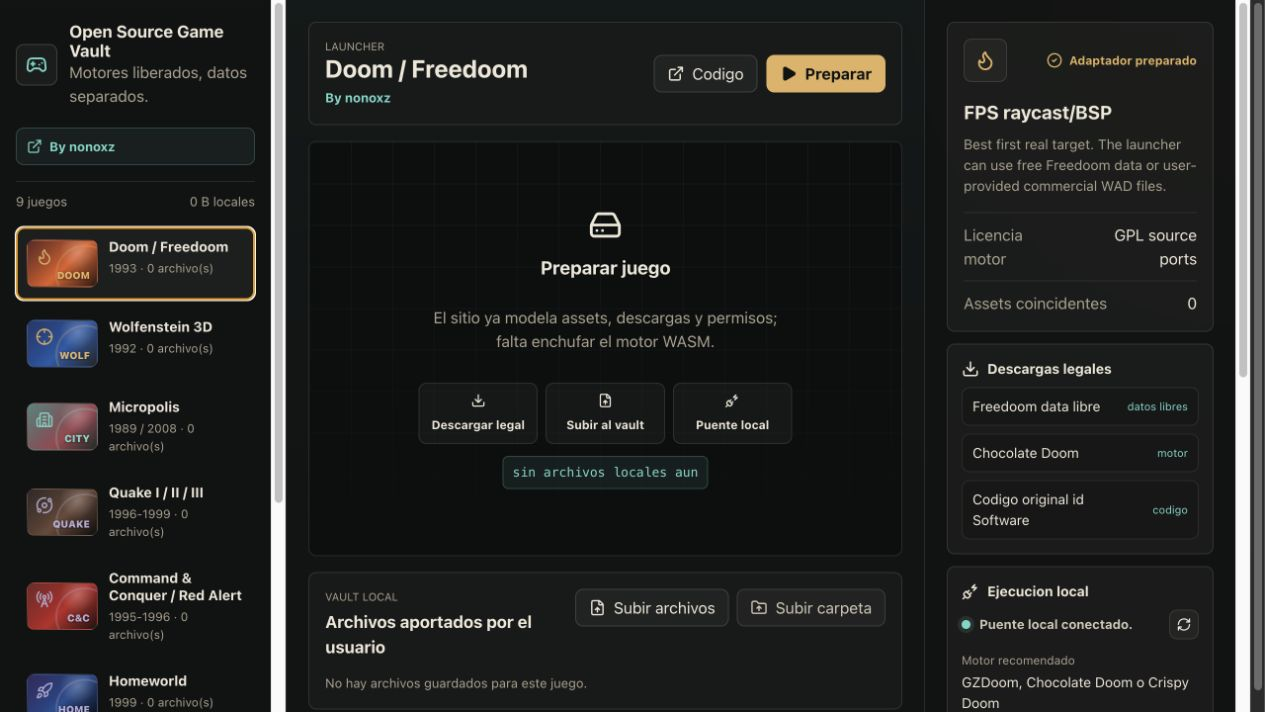
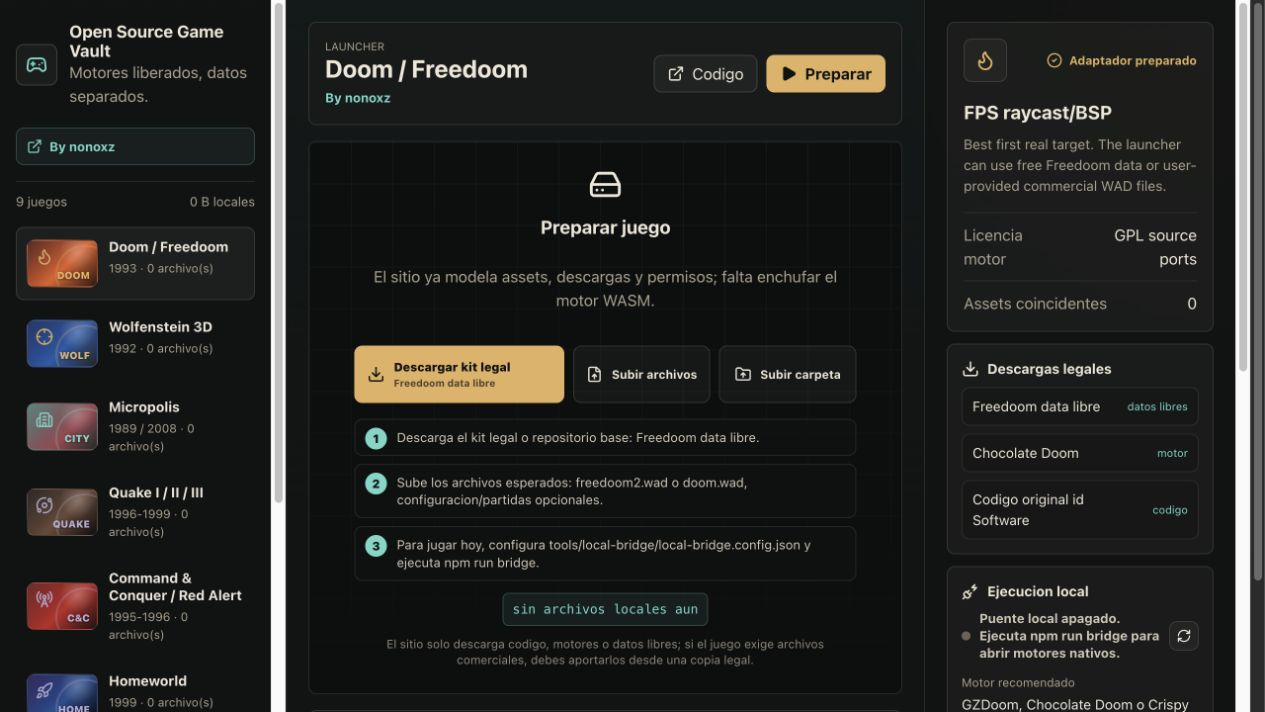
Add central setup instructions

diff --git a/src/App.tsx b/src/App.tsx
@@ -40,6 +40,12 @@ type BridgeState = {
   message: string
 }
 
+type SetupLink = {
+  label: string
+  url: string
+  detail: string
+}
+
 const statusLabel: Record<RuntimeStatus, string> = {
   ready: 'Runner incluido',
   adapter: 'Adaptador preparado',
@@ -91,6 +97,62 @@ function hasMatchingAsset(game: GameEntry, asset: StoredAsset) {
   return game.acceptedExtensions.some((extension) =>
     asset.name.toLowerCase().endsWith(extension.toLowerCase()),
   )
+}
+
+function githubArchiveUrl(url: string) {
+  const match = url.match(/^https:\/\/github\.com\/([^/]+)\/([^/?#]+)\/?$/)
+  if (!match) return undefined
+  return `https://github.com/${match[1]}/${match[2]}/archive/HEAD.zip`
+}
+
+function setupLinkFor(game: GameEntry): SetupLink {
+  const freeData = game.downloadLinks.find((link) => link.kind === 'free-data')
+  if (freeData) {
+    return {
+      label: 'Descargar kit legal',
+      url: freeData.url,
+      detail: freeData.label,
+    }
+  }
+
+  const githubSource =
+    game.downloadLinks.find((link) => link.kind === 'source' && githubArchiveUrl(link.url)) ??
+    ({ label: 'Repositorio base', url: game.sourceUrl, kind: 'source' } satisfies DownloadLink)
+  const githubZip = githubArchiveUrl(githubSource.url)
+  if (githubZip) {
+    return {
+      label: 'Descargar repo base',
+      url: githubZip,
+      detail: githubSource.label,
+    }
+  }
+
+  const engine = game.downloadLinks.find((link) => link.kind === 'engine') ?? game.downloadLinks[0]
+  return {
+    label: 'Abrir descarga',
+    url: engine.url,
+    detail: engine.label,
+  }
+}
+
+function setupStepsFor(game: GameEntry, bridgeCanLaunch: boolean, hasAssets: boolean) {
+  if (game.runMode === 'web-included') {
+    return [
+      'Este runner ya viene incluido en el sitio.',
+      'Pulsa Jugar para reiniciar o volver a cargar la partida.',
+      'Puedes subir archivos opcionales si el runner completo los soporta mas adelante.',
+    ]
+  }
+
+  return [
+    `Descarga el kit legal o repositorio base: ${setupLinkFor(game).detail}.`,
+    hasAssets
+      ? 'Ya hay archivos compatibles guardados en el vault local del navegador.'
+      : `Sube los archivos esperados: ${game.requiredAssets.join(', ')}.`,
+    bridgeCanLaunch
+      ? 'El puente local esta configurado: pulsa Abrir local para ejecutar el motor nativo.'
+      : 'Para jugar hoy, configura tools/local-bridge/local-bridge.config.json y ejecuta npm run bridge.',
+  ]
 }
 
 function App() {
@@ -263,7 +325,7 @@ function App() {
           game={activeGame}
           assets={matchedAssets}
           bridgeCanLaunch={bridgeCanLaunch}
-          bridgeOnline={bridge.online}
+          onUpload={handleUpload}
           launchTick={launchTick}
         />
 
@@ -322,13 +384,13 @@ function Runner({
   game,
   assets,
   bridgeCanLaunch,
-  bridgeOnline,
+  onUpload,
   launchTick,
 }: {
   game: GameEntry
   assets: StoredAsset[]
   bridgeCanLaunch: boolean
-  bridgeOnline: boolean
+  onUpload: (event: ChangeEvent<HTMLInputElement>) => void
   launchTick: number
 }) {
   if (game.runnerPath) {
@@ -347,26 +409,54 @@ function Runner({
   return (
     <div className="runner-placeholder">
       <div className="runner-grid" aria-hidden="true"></div>
-      <div className="runner-message">
+      <div className="runner-message setup-message">
         <HardDrive size={34} aria-hidden="true" />
         <h3>{bridgeCanLaunch ? 'Listo para abrir localmente' : 'Preparar juego'}</h3>
         <p>{statusCopy[game.runtimeStatus]}</p>
-        <div className="runner-steps">
-          <span>
-            <Download size={15} aria-hidden="true" />
-            Descargar legal
-          </span>
-          <span>
-            <FileUp size={15} aria-hidden="true" />
-            Subir al vault
-          </span>
-          <span>
-            <PlugZap size={15} aria-hidden="true" />
-            {bridgeOnline ? 'Puente local' : 'Runner pendiente'}
-          </span>
-        </div>
+        <SetupActions game={game} onUpload={onUpload} />
+        <ol className="setup-instructions">
+          {setupStepsFor(game, bridgeCanLaunch, assets.length > 0).map((step) => (
+            <li key={step}>{step}</li>
+          ))}
+        </ol>
         <code>{assets.length ? `${assets.length} archivo(s) compatible(s)` : 'sin archivos locales aun'}</code>
+        <small className="legal-note">
+          El sitio solo descarga codigo, motores o datos libres; si el juego exige archivos comerciales, debes
+          aportarlos desde una copia legal.
+        </small>
       </div>
+    </div>
+  )
+}
+
+function SetupActions({
+  game,
+  onUpload,
+}: {
+  game: GameEntry
+  onUpload: (event: ChangeEvent<HTMLInputElement>) => void
+}) {
+  const setupLink = setupLinkFor(game)
+
+  return (
+    <div className="setup-actions">
+      <a className="setup-download" href={setupLink.url} target="_blank" rel="noreferrer">
+        <Download size={18} aria-hidden="true" />
+        <span>
+          <strong>{setupLink.label}</strong>
+          <small>{setupLink.detail}</small>
+        </span>
+      </a>
+      <label className="setup-upload">
+        <FileUp size={17} aria-hidden="true" />
+        Subir archivos
+        <input multiple type="file" onChange={onUpload} accept={game.acceptedExtensions.join(',')} />
+      </label>
+      <label className="setup-upload">
+        <FolderUp size={17} aria-hidden="true" />
+        Subir carpeta
+        <input multiple type="file" onChange={onUpload} {...folderInputProps} />
+      </label>
     </div>
   )
 }

diff --git a/src/App.css b/src/App.css
@@ -391,13 +391,17 @@
   position: relative;
   display: grid;
   place-items: center;
-  max-width: 430px;
+  max-width: 560px;
   padding: 26px;
   text-align: center;
 }
 
 .runner-message h3 {
   margin: 12px 0 8px;
+}
+
+.setup-message {
+  align-content: center;
 }
 
 .runner-message code {
@@ -409,26 +413,113 @@
   background: rgba(109, 215, 200, 0.08);
 }
 
-.runner-steps {
+.setup-actions {
   display: grid;
-  grid-template-columns: repeat(3, minmax(0, 1fr));
-  gap: 8px;
-  width: min(100%, 430px);
-  margin-top: 14px;
+  grid-template-columns: minmax(210px, 1.3fr) minmax(130px, 0.85fr) minmax(130px, 0.85fr);
+  gap: 9px;
+  width: min(100%, 560px);
+  margin-top: 18px;
 }
 
-.runner-steps span {
-  display: grid;
-  place-items: center;
-  gap: 5px;
-  min-height: 62px;
-  padding: 8px;
+.setup-download,
+.setup-upload {
+  display: flex;
+  align-items: center;
+  justify-content: center;
+  gap: 9px;
+  min-height: 58px;
+  padding: 10px 12px;
   color: #eee7d8;
-  border: 1px solid rgba(238, 231, 216, 0.11);
+  text-decoration: none;
+  border: 1px solid rgba(238, 231, 216, 0.13);
   border-radius: 8px;
   background: rgba(238, 231, 216, 0.045);
   font-size: 12px;
   font-weight: 700;
+  cursor: pointer;
+}
+
+.setup-download {
+  justify-content: flex-start;
+  color: #111313;
+  background: #e2b15f;
+  border-color: #e2b15f;
+  text-align: left;
+}
+
+.setup-download span,
+.setup-download strong,
+.setup-download small {
+  display: block;
+  min-width: 0;
+}
+
+.setup-download small {
+  max-width: 260px;
+  overflow: hidden;
+  color: rgba(17, 19, 19, 0.72);
+  text-overflow: ellipsis;
+  white-space: nowrap;
+}
+
+.setup-upload:hover {
+  border-color: rgba(109, 215, 200, 0.45);
+}
+
+.setup-upload input {
+  position: absolute;
+  width: 1px;
+  height: 1px;
+  opacity: 0;
+  pointer-events: none;
+}
+
+.setup-instructions {
+  display: grid;
+  gap: 8px;
+  width: min(100%, 560px);
+  margin: 16px 0 0;
+  padding: 0;
+  list-style: none;
+  counter-reset: setup-step;
+  text-align: left;
+}
+
+.setup-instructions li {
+  position: relative;
+  min-height: 36px;
+  padding: 9px 10px 9px 42px;
+  color: #cfc7b6;
+  border: 1px solid rgba(238, 231, 216, 0.1);
+  border-radius: 8px;
+  background: rgba(17, 18, 18, 0.42);
+  font-size: 13px;
+  line-height: 1.35;
+}
+
+.setup-instructions li::before {
+  counter-increment: setup-step;
+  content: counter(setup-step);
+  position: absolute;
+  left: 10px;
+  top: 8px;
+  display: grid;
+  place-items: center;
+  width: 22px;
+  height: 22px;
+  color: #111313;
+  border-radius: 50%;
+  background: #6dd7c8;
+  font-size: 12px;
+  font-weight: 900;
+}
+
+.legal-note {
+  max-width: 540px;
+  margin-top: 10px;
+  color: #8f8677;
+  font-size: 12px;
+  line-height: 1.35;
 }
 
 .asset-dock {
@@ -765,7 +856,7 @@
     min-height: 340px;
   }
 
-  .runner-steps {
+  .setup-actions {
     grid-template-columns: 1fr;
   }
 }

diff --git a/src/data/games.ts b/src/data/games.ts
@@ -68,7 +68,7 @@ export const games: GameEntry[] = [
       'Best first real target. The launcher can use free Freedoom data or user-provided commercial WAD files.',
     legalBoundary:
       'The original engine source is available, but commercial WAD data is not bundled here.',
-    requiredAssets: ['freedoom2.wad or doom.wad', 'optional config/save files'],
+    requiredAssets: ['freedoom2.wad o doom.wad', 'configuracion/partidas opcionales'],
     acceptedExtensions: ['.wad'],
     nextStep: 'Connect a Chocolate Doom or wasm-doom build to the runner slot.',
   },